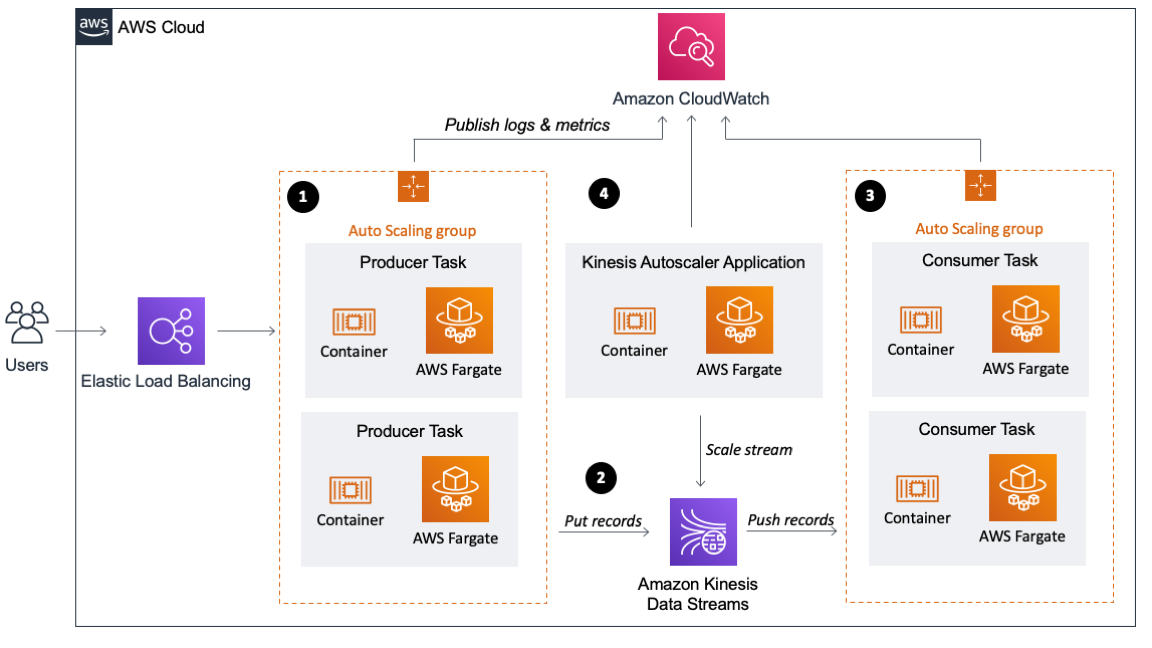
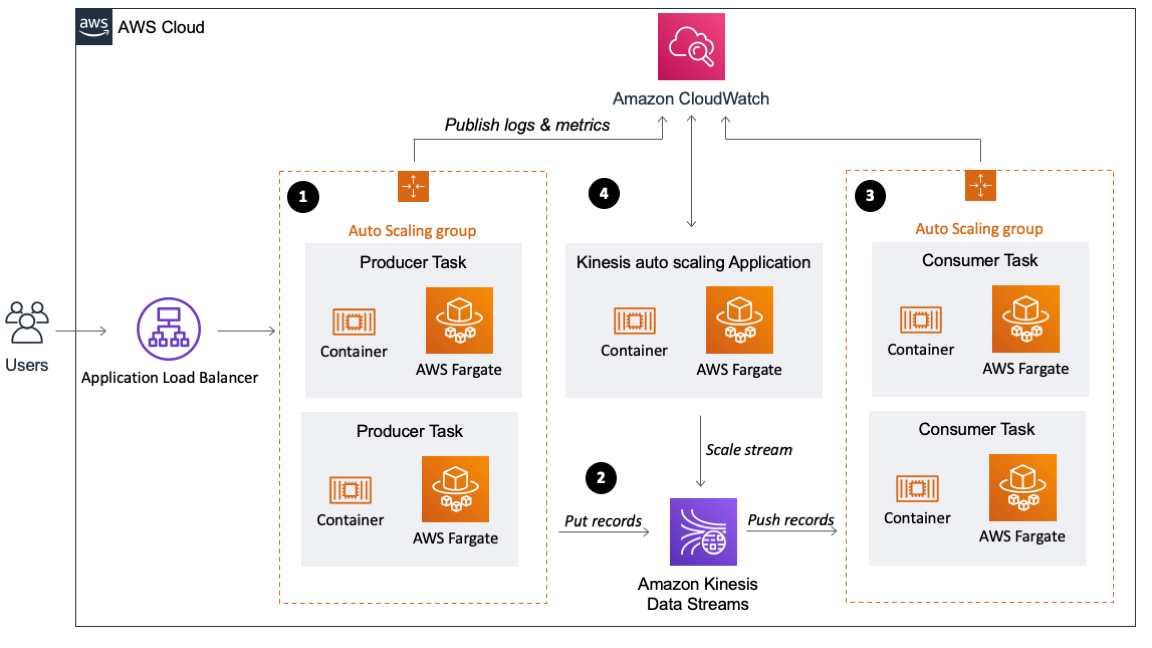
Update GitHub Endpoints

Changed region(s): [[0.0625, 0.4321, 0.2188, 0.6173], [0.5, 0.3704, 0.7188, 0.4321]]

diff --git a/README.md b/README.md
@@ -1,0 +1,54 @@
+# Building a scalable streaming data processor with Amazon Kinesis on AWS Fargate
+
+In this blog post, you will see how to build a scalable producer and consumer application for an [Amazon Kinesis Data Stream (KDS)](https://docs.aws.amazon.com/streams/latest/dev/introduction.html) running on [AWS Fargate](https://docs.aws.amazon.com/AmazonECS/latest/developerguide/AWS_Fargate.html). Amazon Kinesis is a fully managed and scalable data stream which enables you to ingest, buffer and process data in real-time. AWS Fargate is a serverless compute engine for containers that works with AWS container orchestration services like [Amazon Elastic Container Service (ECS)](https://docs.aws.amazon.com/AmazonECS/latest/developerguide/Welcome.html), which allows us to easily run, scale and secure containerized applications. Further, this example will leverage the [Kinesis Producer Library (KPL)](https://docs.aws.amazon.com/streams/latest/dev/developing-producers-with-kpl.html#developing-producers-with-kpl-role) and [Kinesis Client Library (KCL)](https://docs.aws.amazon.com/streams/latest/dev/shared-throughput-kcl-consumers.html#shared-throughput-kcl-consumers-overview) to ingest data into the stream and to process it. These libraries help manage the heavy lifting required for retry logic, record aggregation, checkpointing, shard enumeration and other complex tasks for distributed computing, so you can focus on application development.
+
+## Architectural Overview
+
+There are 4 components in the architecture:
+
+1. Producer group (data ingestion)
+2. Stream
+3. Consumer group (data processor)
+4. Kinesis auto scaling Application
+
+![](architecture.png)
+
+For more details of the individual components please refer to associated Blog Post on the [AWS Big Data Blog](https://aws.amazon.com/blogs/big-data/).
+
+## Deployment Guide
+
+### Prequisites
+
+For this walkthrough, you need the following prerequisites: 
+* An AWS account
+
+### Step 1: Deploy the CloudFormation Stack
+
+Deploy the CloudFormation Stack by clicking the Launch Stack Button.The template is launched in the US East (N. Virginia) Region by default. To launch it in a different AWS Region, use the region selector in the console navigation bar. The following regions are supported: US East (N. Virgina), US East (Ohio), US West (N.California), US West (Oregon), Asia Pacific (Singapore), Asia Pacific (Sydney), Europe (Frankfurt), Europe (Ireland).
+
+[<img src="https://s3.amazonaws.com/cloudformation-examples/cloudformation-launch-stack.png">](https://console.aws.amazon.com/cloudformation/home?region=us-east-1#/stacks/new?&templateURL=https://flomair-dataprocessor-source.s3-us-west-2.amazonaws.com/deployment.yaml)
+
+Alternatively you can download the [CloudFormation Template File](https://flomair-dataprocessor-source.s3-us-west-2.amazonaws.com/deployment.yaml) and deploy it manually. When asked to provide an IPv4 CIDR Range enter the CIDR range that will be able to send records to your application. You can change that also later on by the [Security Groups Inbound Rule](https://docs.aws.amazon.com/vpc/latest/userguide/VPC_SecurityGroups.html#AddRemoveRules) of the Application Load Balancer.
+
+### Step 2: Send Records to Kinesis
+
+You have several options to send records to Kinesis. You can do it from the CLI, any API Client that can send REST requests, or you can use a load testing solution like [Distributed Load Testing on AWS](https://aws.amazon.com/solutions/distributed-load-testing-on-aws/) or [Artillery](https://artillery.io/). With load testing additional charges for requests occur, as a guideline 10,000 requests per second for 10 minutes will generate an AWS bill of less than $5. To do a POST request via curl run the following command and replace ALB_ENDPOINT with the DNS record of your ALB. You can find it in the CloudFormation stack’s outputs section. Ensure you have a JSON element “data”. Otherwise the application will not be able to process the record.
+```bash
+curl --location --request POST 'http://ALB-DNS-record' --header 'Content-Type: application/json' --data-raw '{"data":"2000-00-00 00:00:00 INFO HelloExample:1 - This is our load testing record"}
+```
+
+### Step 3: Monitor your Stream and Applications
+
+With the resource creation via the CloudFormation Template a CloudWatch Dashboard has been created. You can find this in the AWS Console within CloudWatch or by clicking the Link in the CloudFormation Stack's output section.
+
+![](dashboard.png)
+
+
+### Cleanup
+
+To avoid additional cost, ensure that the provisioned resources are decommissioned. To do that delete the images in the ECR repository, the CloudFormation stack and any remaining resources that were not deleted by the CloudFormation stack.
+
+
+## License
+
+This library is licensed under the MIT-0 License. See the LICENSE file.

diff --git a/CONTRIBUTING.md b/CONTRIBUTING.md
@@ -1,0 +1,61 @@
+# Contributing Guidelines
+
+Thank you for your interest in contributing to our project. Whether it's a bug report, new feature, correction, or additional
+documentation, we greatly value feedback and contributions from our community.
+
+Please read through this document before submitting any issues or pull requests to ensure we have all the necessary
+information to effectively respond to your bug report or contribution.
+
+
+## Reporting Bugs/Feature Requests
+
+We welcome you to use the GitHub issue tracker to report bugs or suggest features.
+
+When filing an issue, please check existing open, or recently closed, issues to make sure somebody else hasn't already
+reported the issue. Please try to include as much information as you can. Details like these are incredibly useful:
+
+* A reproducible test case or series of steps
+* The version of our code being used
+* Any modifications you've made relevant to the bug
+* Anything unusual about your environment or deployment
+
+
+## Contributing via Pull Requests
+Contributions via pull requests are much appreciated. Before sending us a pull request, please ensure that:
+
+1. You are working against the latest source on the *master* branch.
+2. You check existing open, and recently merged, pull requests to make sure someone else hasn't addressed the problem already.
+3. You open an issue to discuss any significant work - we would hate for your time to be wasted.
+
+To send us a pull request, please:
+
+1. Fork the repository.
+2. Modify the source; please focus on the specific change you are contributing. If you also reformat all the code, it will be hard for us to focus on your change.
+3. Ensure local tests pass.
+4. Commit to your fork using clear commit messages.
+5. Send us a pull request, answering any default questions in the pull request interface.
+6. Pay attention to any automated CI failures reported in the pull request, and stay involved in the conversation.
+
+GitHub provides additional document on [forking a repository](https://help.github.com/articles/fork-a-repo/) and
+[creating a pull request](https://help.github.com/articles/creating-a-pull-request/).
+
+
+## Finding contributions to work on
+Looking at the existing issues is a great way to find something to contribute on. As our projects, by default, use the default GitHub issue labels (enhancement/bug/duplicate/help wanted/invalid/question/wontfix), looking at any 'help wanted' issues is a great place to start.
+
+
+## Code of Conduct
+This project has adopted the [Amazon Open Source Code of Conduct](https://aws.github.io/code-of-conduct).
+For more information see the [Code of Conduct FAQ](https://aws.github.io/code-of-conduct-faq) or contact
+opensource-codeofconduct@amazon.com with any additional questions or comments.
+
+
+## Security issue notifications
+If you discover a potential security issue in this project we ask that you notify AWS/Amazon Security via our [vulnerability reporting page](http://aws.amazon.com/security/vulnerability-reporting/). Please do **not** create a public github issue.
+
+
+## Licensing
+
+See the [LICENSE](LICENSE) file for our project's licensing. We will ask you to confirm the licensing of your contribution.
+
+We may ask you to sign a [Contributor License Agreement (CLA)](http://en.wikipedia.org/wiki/Contributor_License_Agreement) for larger changes.

diff --git a/CODE_OF_CONDUCT.md b/CODE_OF_CONDUCT.md
@@ -1,0 +1,4 @@
+## Code of Conduct
+This project has adopted the [Amazon Open Source Code of Conduct](https://aws.github.io/code-of-conduct).
+For more information see the [Code of Conduct FAQ](https://aws.github.io/code-of-conduct-faq) or contact
+opensource-codeofconduct@amazon.com with any additional questions or comments.
